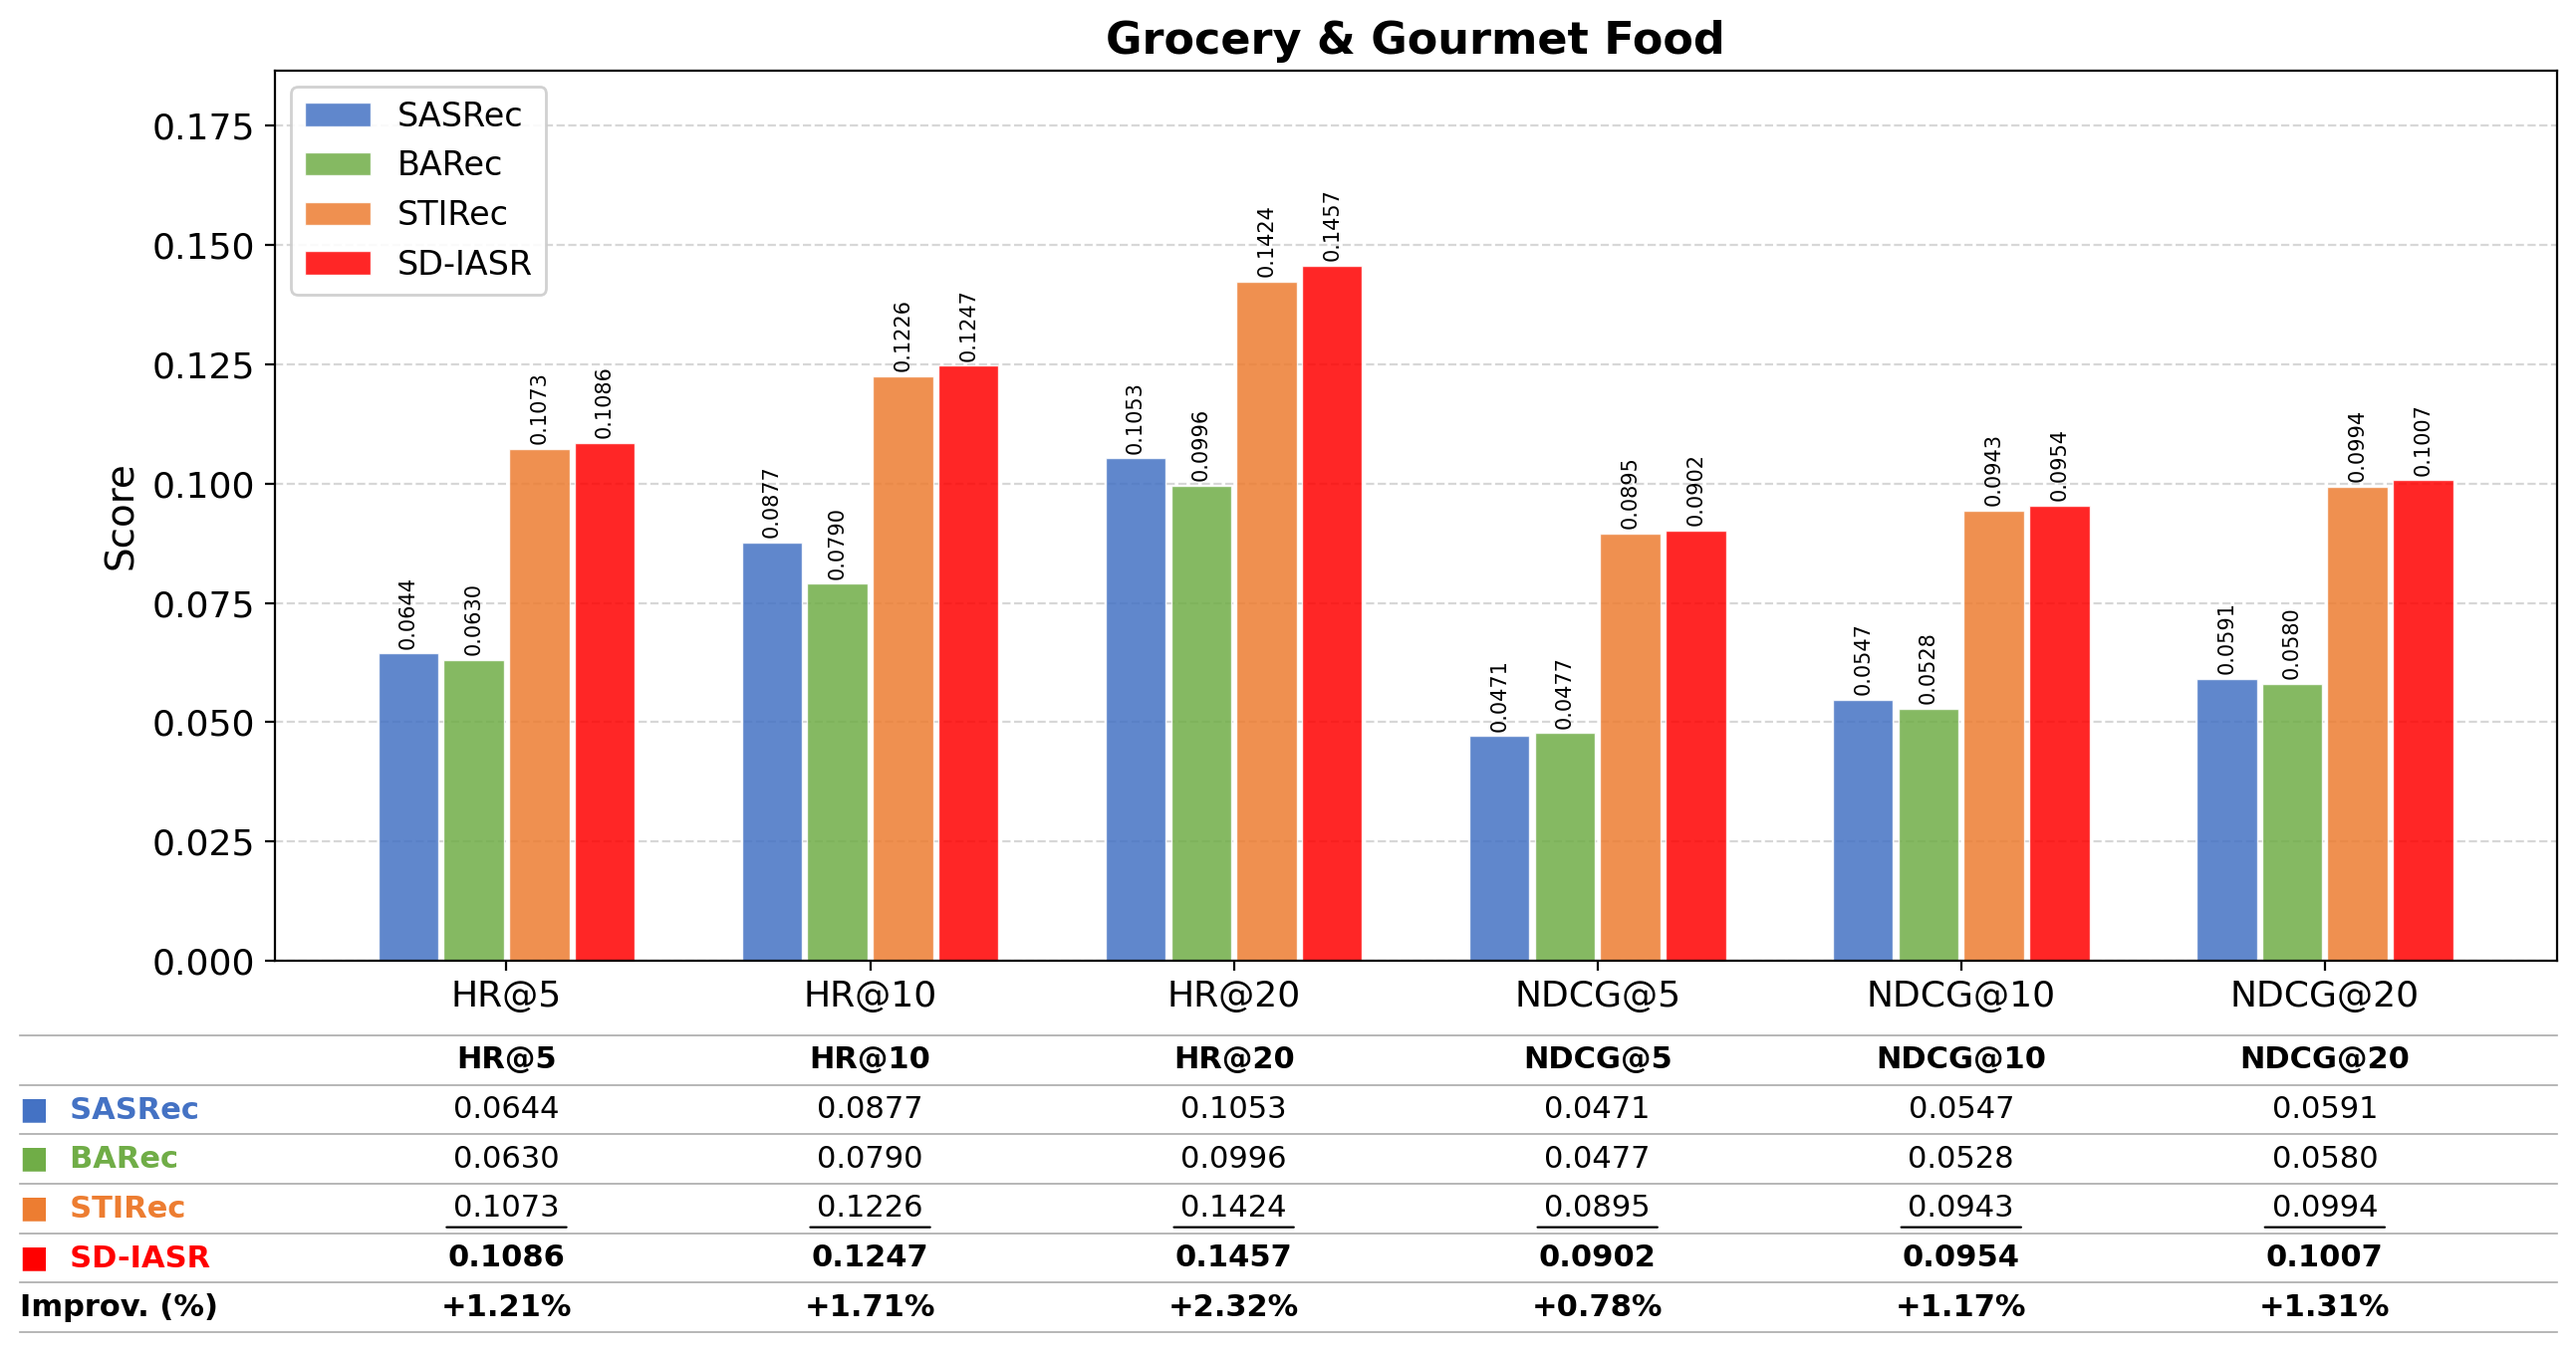
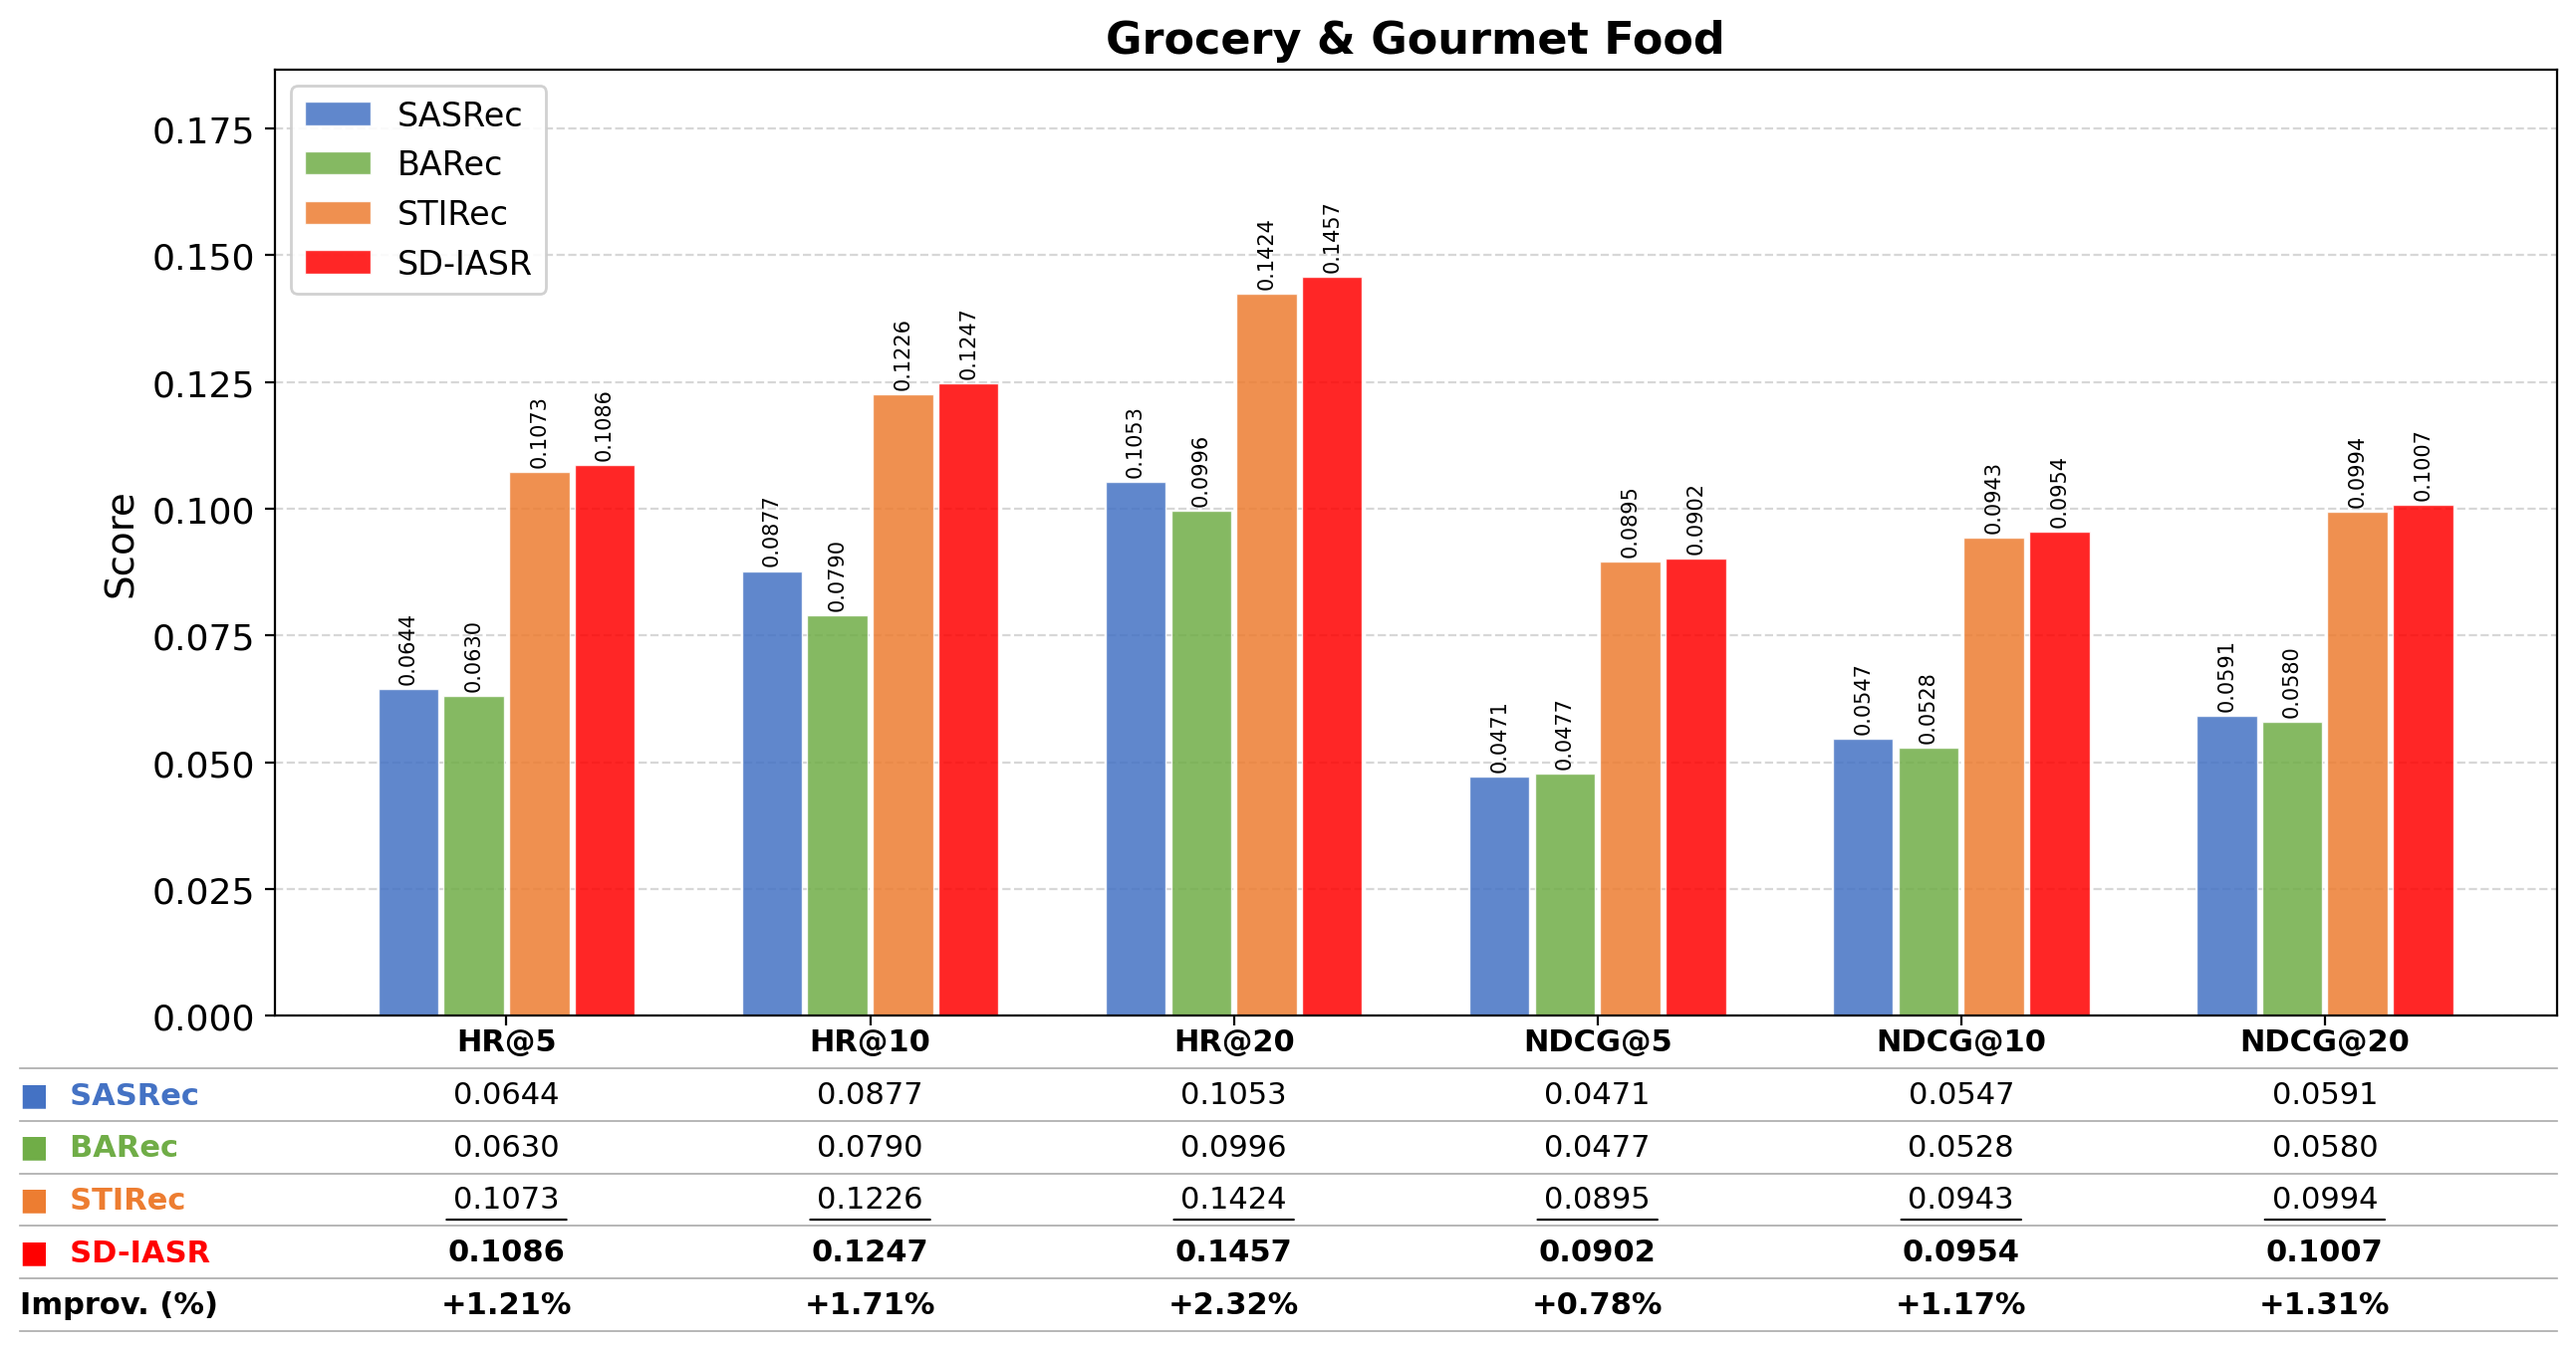
rq3

diff --git a/experiments/RQ3/plot_rq3.py b/experiments/RQ3/plot_rq3.py
@@ -106,7 +106,7 @@ def plot_dataset(dataset, output_dir):
                    edgecolor=COLORS[model], linewidth=1)
 
     ax.set_xticks(x)
-    ax.set_xticklabels(METRICS)
+    ax.set_xticklabels(['' ] * len(METRICS))
     ax.set_ylabel('Score')
     ax.set_title(f'{title}', fontweight='bold')
     ax.legend(loc='upper left', framealpha=0.9)
@@ -138,7 +138,7 @@ def plot_dataset(dataset, output_dir):
     ax_table.set_ylim(0, total_rows + 1)
 
     # 重新畫分隔線（多一列）
-    for row_y in range(total_rows + 2):
+    for row_y in range(total_rows + 1):
         ax_table.plot([name_x, x_right], [row_y, row_y],
                       color='#AAAAAA', linewidth=0.6, clip_on=False)
 
@@ -183,7 +183,8 @@ def plot_dataset(dataset, output_dir):
                       ha='center', va='center', fontsize=11,
                       color='black', fontweight='bold')
 
-    plt.tight_layout(h_pad=0.5)
+    plt.tight_layout(h_pad=0)
+    plt.subplots_adjust(hspace=0)
     fname = dataset.replace(' ', '_') + '_performance.png'
     save_path = os.path.join(output_dir, fname)
     fig.savefig(save_path, dpi=200, bbox_inches='tight')
